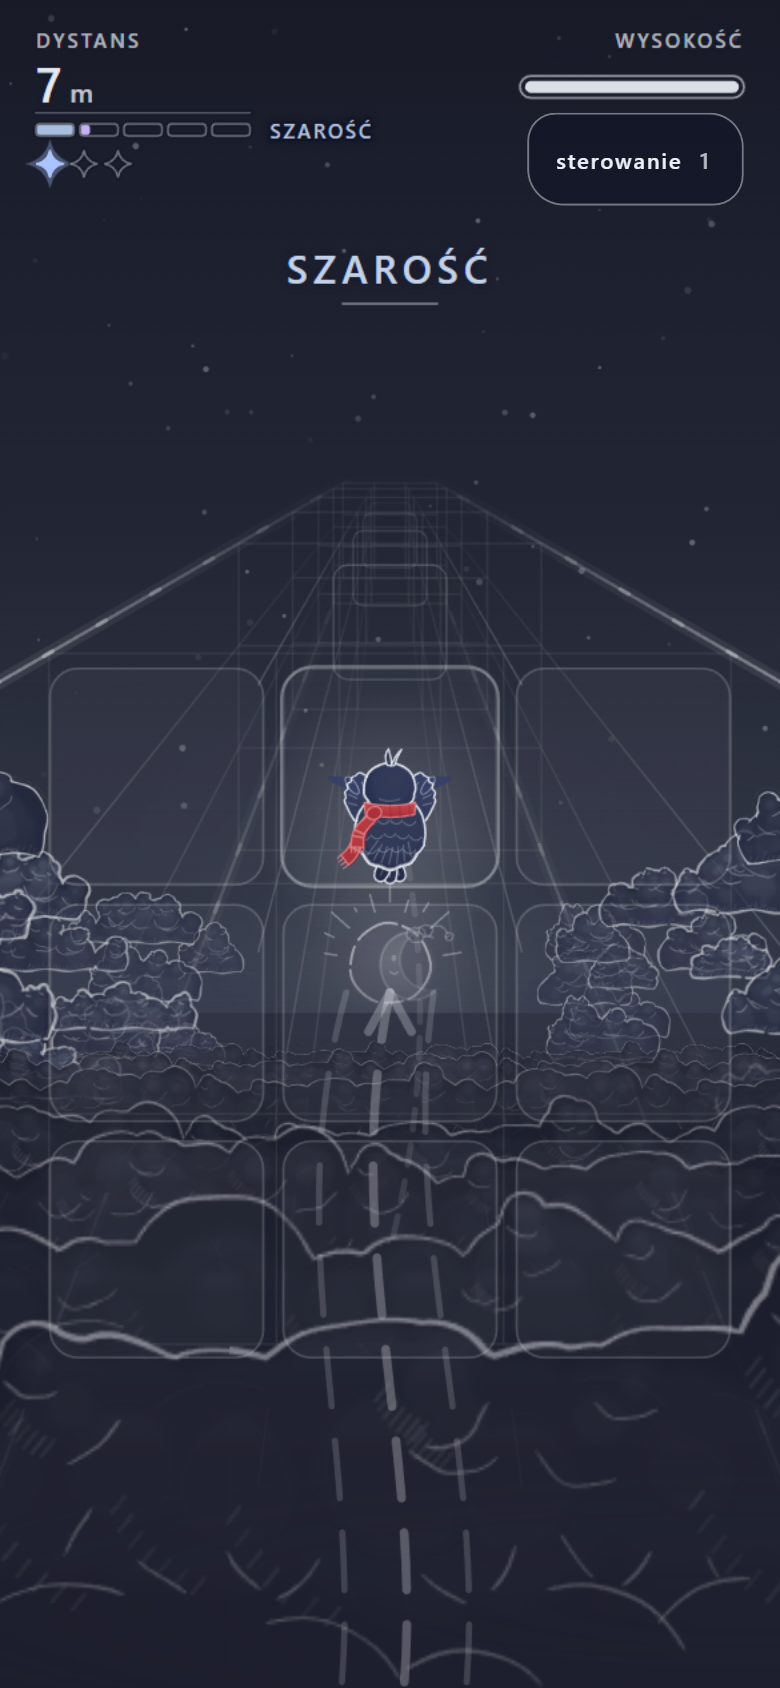
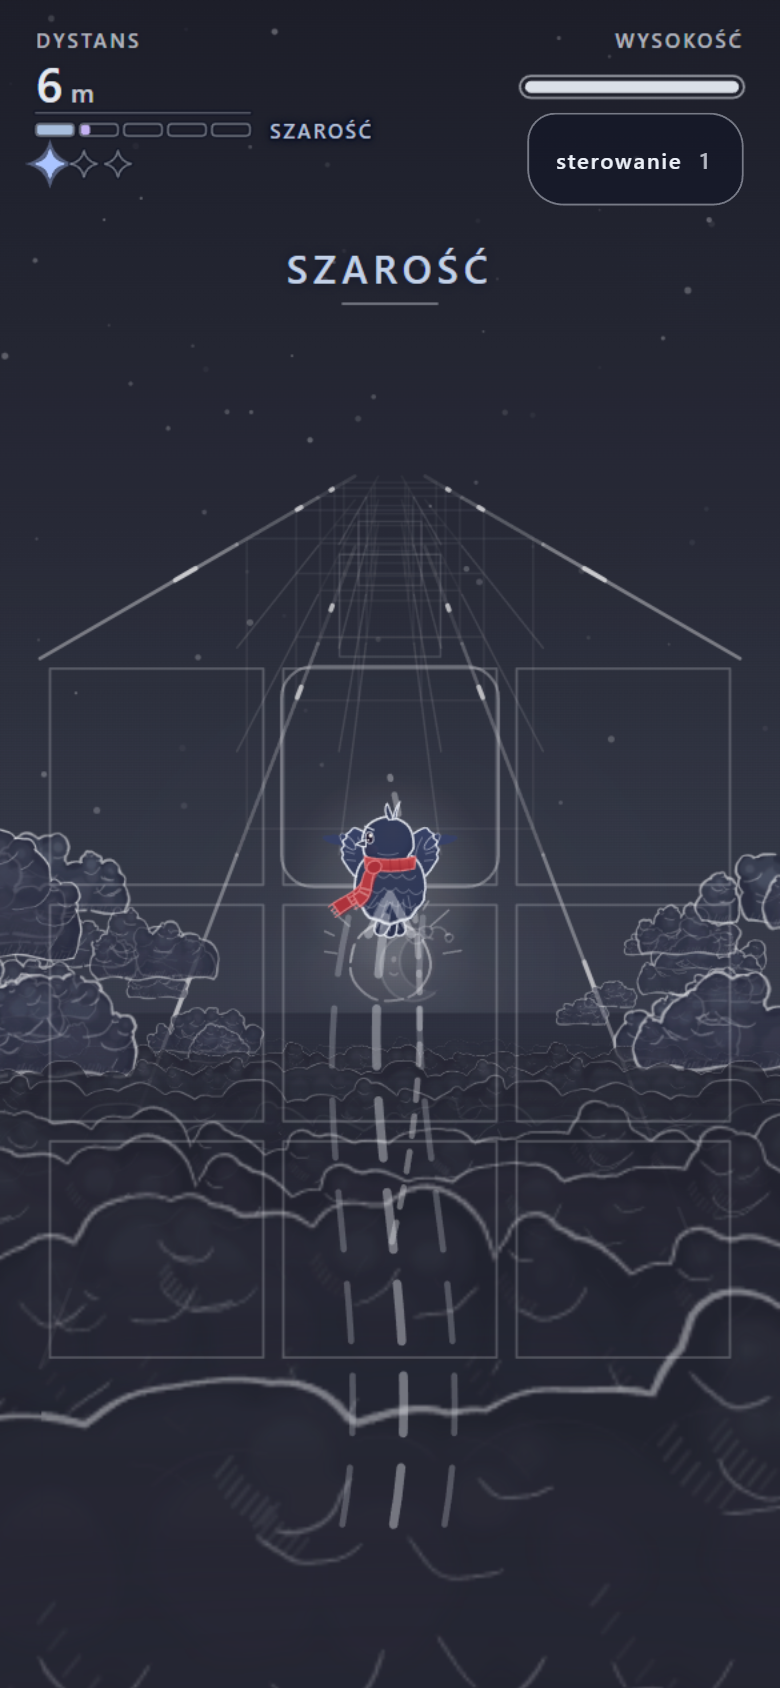
Z14 (etap 4): cień nadlatującego plastra na siatce Okruszka (1,5 s przed kontaktem: przeszkody miodowa ramka, wiatry jasna ramka); log pierwszego pełnego preflightu (Z3b i Z11 nie przeszły pod obciążeniem, osobno zielone)

diff --git a/index.html b/index.html
@@ -5280,6 +5280,23 @@ Słońce obiecało wrócić rano.</p>
     ctx.beginPath();   /* jedna ścieżka, same jasne ramki (bez wypełnienia: tańsze) */
     for (k = 0; k < TOR.COLS; k++) for (n = 0; n < TOR.ROWS; n++) { X = torSX(k, G.ZB); Y = torRowSY(n); ctx.rect(X - hw + 5, Y - hh + 5, (hw - 5) * 2, (hh - 5) * 2); }   /* rect (roundRect w rasteryzacji programowej ok. 3 x droższy) */
     ctx.lineJoin = 'round'; ctx.strokeStyle = rgba(col, 0.24); ctx.lineWidth = 1.2; ctx.stroke();
+    /* cień nadlatującego plastra na tej siatce (ostatnie OSTRZEZ s przed kontaktem): w której komórce jest przeszkoda, a w której wiatr, bez zgadywania z perspektywy */
+    var nb = null, q3, et, ga, ch3, r3, c3;
+    for (k = 0; k < torPl.length; k++) { q3 = torPl[k]; if (!q3.puste && !q3.kontakt && q3.z > G.ZB && (!nb || q3.z < nb.z)) nb = q3; }
+    if (nb && state === 'gra') {
+      et = (nb.z - G.ZB) / Math.max(0.3, curSpeed); ga = sm(1 - et / TOR.OSTRZEZ);
+      if (ga > 0.01) {
+        for (var rodz = 0; rodz < 2; rodz++) {   /* 0 = przeszkody (miodowa ramka), 1 = wiatry (jasna ramka) */
+          ctx.beginPath();
+          for (r3 = 0; r3 < nb.g.length; r3++) for (c3 = 0; c3 < nb.g[r3].length; c3++) {
+            ch3 = nb.g[r3].charAt(c3); if (ch3 === '.' || ch3 === 'o' || (rodz === 0) !== !TOR_WIATRY[ch3]) continue;
+            if (ch3 === 'F' && !(c3 === Math.round(torKC()) && r3 === Math.round(torKR()))) continue;
+            X = torSX(c3, G.ZB); Y = torRowSY(r3); ctx.rect(X - hw + 9, Y - hh + 9, (hw - 9) * 2, (hh - 9) * 2);
+          }
+          ctx.strokeStyle = rodz === 0 ? rgba(mixc(LINE, [255, 214, 140], 0.25 + 0.6 * amt), 0.6 * ga) : rgba(col, 0.5 * ga); ctx.lineWidth = rodz === 0 ? 2.2 : 1.6; ctx.stroke();
+        }
+      }
+    }
     gr = ctx.createRadialGradient(cx, cy, 6, cx, cy, Math.max(hw, hh) * 0.85); gr.addColorStop(0, rgba(col, 0.16)); gr.addColorStop(1, rgba(col, 0));
     ctx.fillStyle = gr; ctx.fillRect(cx - hw * 0.9, cy - hh * 0.9, hw * 1.8, hh * 1.8);
     X = torSX(TC, G.ZB); Y = torRowSY(TR);
